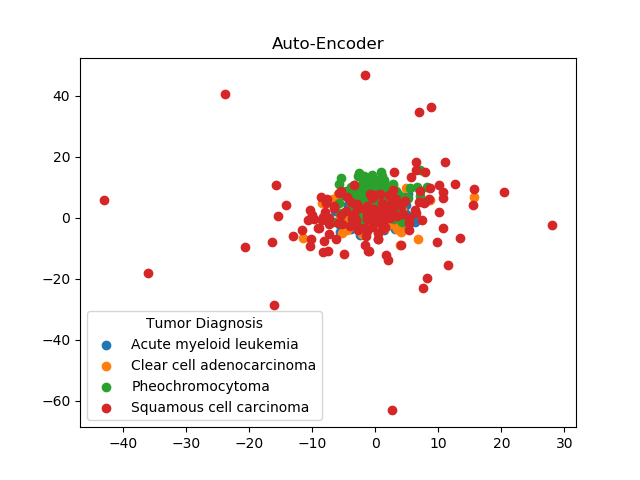
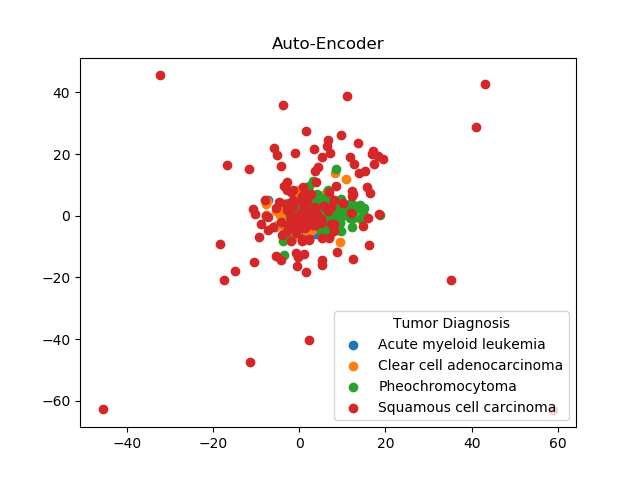
Make autoencoder more modular, regenerate graphs

diff --git a/visualize.py b/visualize.py
@@ -1,7 +1,13 @@
+from app.simple_autoencoder import AE, train_AE
+
 import numpy as np
 import matplotlib.pyplot as plt
-from sklearn.decomposition import PCA, KernelPCA
+from sklearn.decomposition import PCA
 from sklearn.manifold import TSNE
+import time
+from torch import nn
+import torch.optim as optim
+import torch
 
 num_points = 300
 
@@ -20,7 +26,7 @@ label_name_dict = {
 }
 
 
-# embed using t-SNE
+# embed using t-SNE & visualize
 print("Reducing dimensions...")
 X_embedded = TSNE(n_components=2).fit_transform(X)
 print("Reduced from", X.shape, "to", X_embedded.shape)
@@ -34,8 +40,7 @@ ax.legend(title="Tumor Diagnosis")
 plt.title("t-SNE")
 plt.show()
 
-# embed using PCA
-
+# embed using PCA & visualize
 pca = PCA(n_components = 2)
 fit = pca.fit(X.T)
 pca_components = fit.components_
@@ -47,4 +52,30 @@ for label in np.unique(labels):
   ax.scatter(pca_components[0][i], pca_components[1][i], label=label_name)
 ax.legend(title="Tumor Diagnosis")
 plt.title("PCA")
+plt.show()
+
+# embed using autoencoder & visualize
+print("Training Autoencoder...")
+X = torch.tensor(X)
+loss_function = nn.L1Loss()
+auto = AE()
+optimizer = optim.SGD(auto.parameters(), lr=0.000001, momentum=0.9)
+start_time = time.perf_counter()
+train_AE(X, X, auto, optimizer, loss_function, EPOCHS=75)
+print("\tFinished after", time.perf_counter()-start_time, "seconds.")
+
+# encode the data
+print("Encoding the data...")
+X_embedded = auto.forward(X.float(), return_z=True).detach().numpy()
+print("\tembedded shape:", X_embedded.shape)
+
+# create the plots
+fig, ax = plt.subplots()
+for label in np.unique(labels):
+  print("graphing label", label)
+  i = np.where(labels == label)
+  label_name = label_name_dict[label]
+  ax.scatter(X_embedded.T[0][i], X_embedded.T[1][i], label=label_name)
+ax.legend(title="Tumor Diagnosis")
+plt.title("Auto-Encoder")
 plt.show()

diff --git a/app/simple_autoencoder.py b/app/simple_autoencoder.py
@@ -1,14 +1,4 @@
-
-import matplotlib.pyplot as plt
-import numpy as np
-import time
 from torch import nn
-import torch.optim as optim
-import torch.nn.functional as F
-import torch
-from torch import autograd
-
-
 
 class AE(nn.Module):
     
@@ -61,46 +51,3 @@ def train_AE(X_in, X_target, model, optimizer, loss_function, EPOCHS):
         # print out loss
         if epoch % 5 == 0:
             print("\tepoch: {}, loss: {:.3f}".format(epoch, loss.item()))
-
-
-# load data from file
-start_time = time.perf_counter()
-print("Loading data...")
-X = np.genfromtxt("data/train-test-data/X.csv", delimiter=",")
-print("\tFinished after", time.perf_counter()-start_time, "seconds.")
-print("\tX shape:", X.shape)
-X = torch.tensor(X)
-
-loss_function = nn.L1Loss()
-auto = AE()
-optimizer = optim.SGD(auto.parameters(), lr=0.000001, momentum=0.9)
-
-print("Training...")
-start_time = time.perf_counter()
-train_AE(X, X, auto, optimizer, loss_function, EPOCHS=75)
-print("\tFinished after", time.perf_counter()-start_time, "seconds.")
-
-
-print("Encoding the data...")
-X_embedded = auto.forward(X.float(), return_z=True).detach().numpy()
-print("\tembedded shape:", X_embedded.shape)
-
-# load the diagnosis labels
-labels = np.genfromtxt("data/train-test-data/y.csv", delimiter=",", dtype=int)
-label_name_dict = {
-  0: "Acute myeloid leukemia",
-  1: "Clear cell adenocarcinoma",
-  2: "Pheochromocytoma",
-  3: "Squamous cell carcinoma"
-}
-
-# create the plots
-fig, ax = plt.subplots()
-for label in np.unique(labels):
-  print("graphing label", label)
-  i = np.where(labels == label)
-  label_name = label_name_dict[label]
-  ax.scatter(X_embedded.T[0][i], X_embedded.T[1][i], label=label_name)
-ax.legend(title="Tumor Diagnosis")
-plt.title("Auto-Encoder")
-plt.show()
